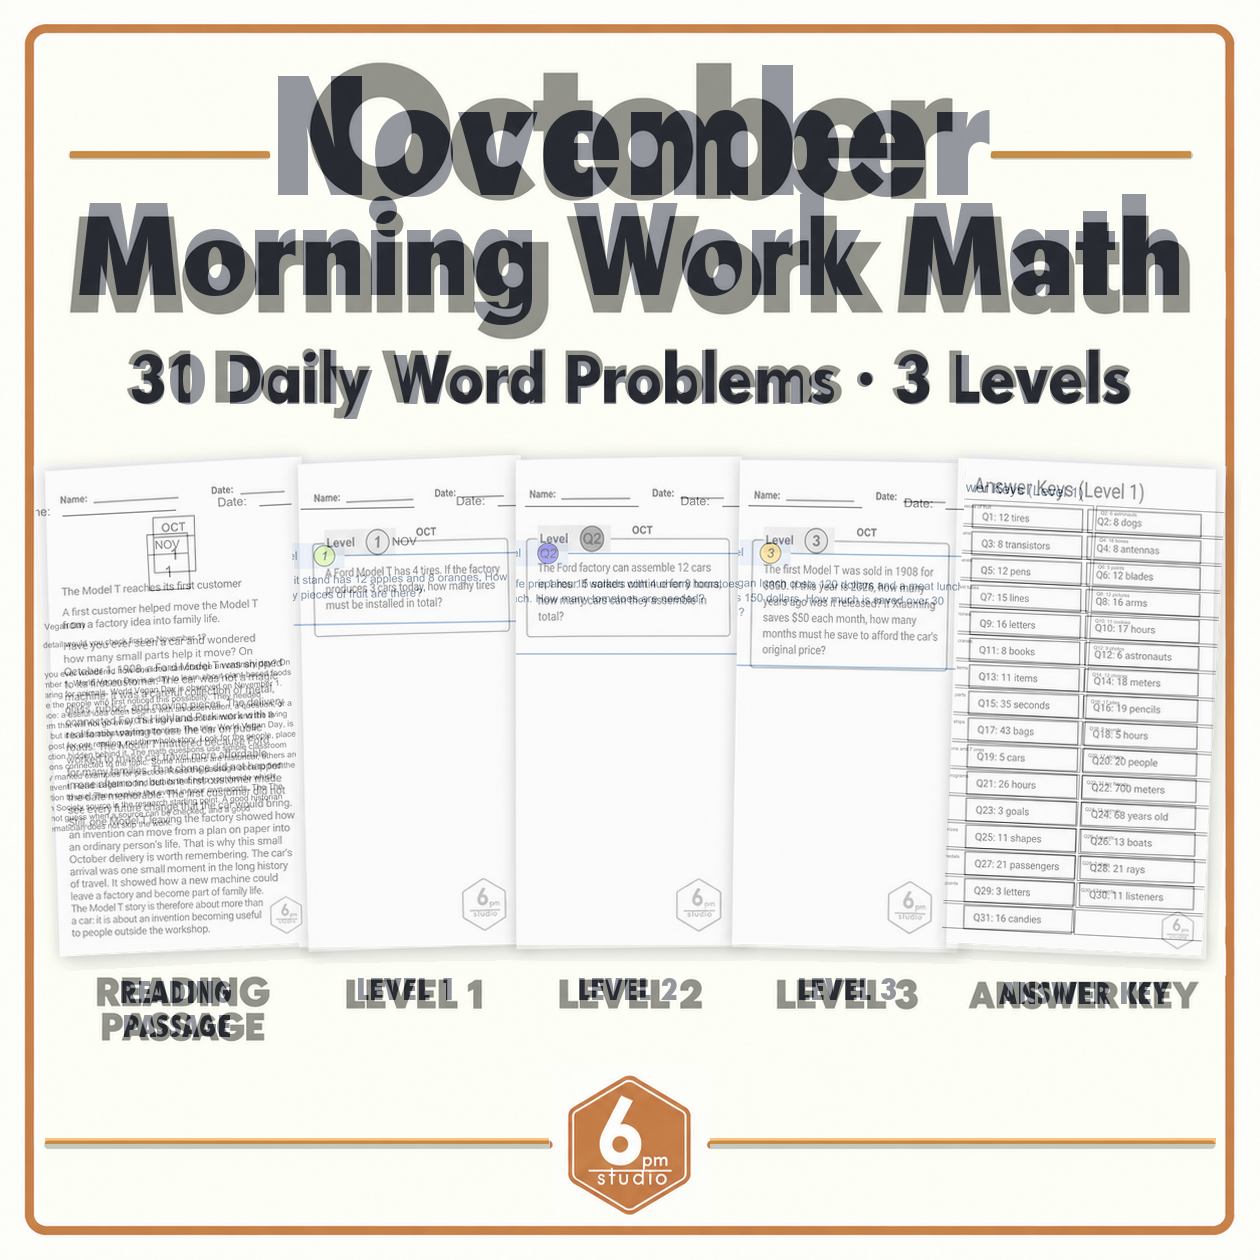
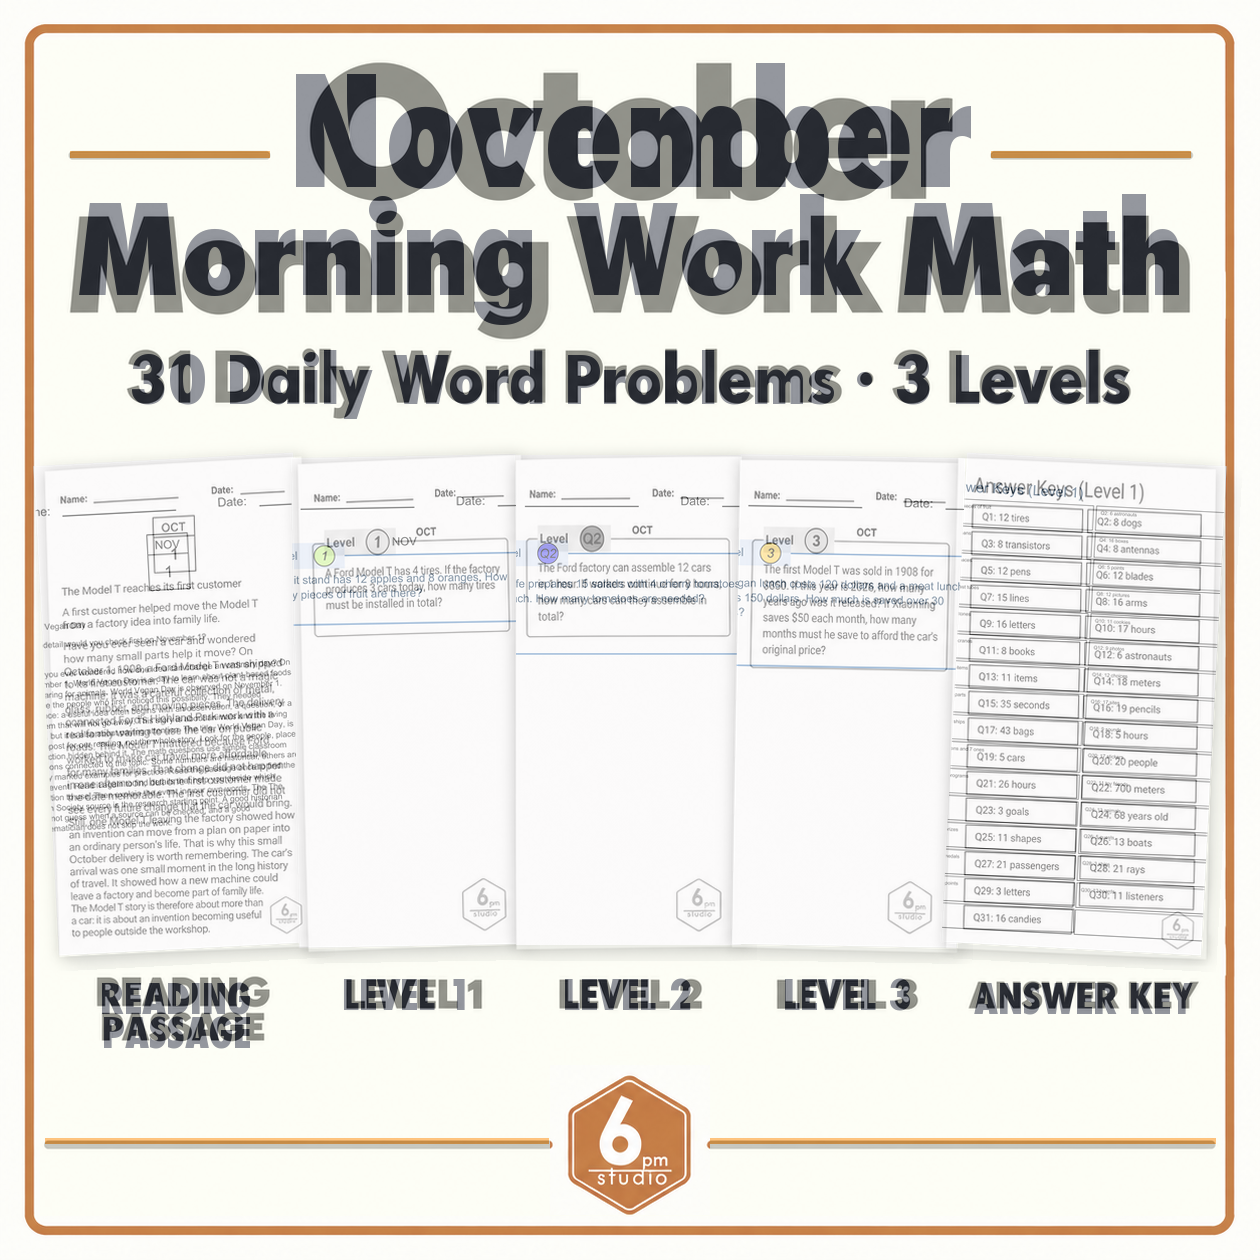
Refine landing thumbnail typography

diff --git a/scripts/generate_monthly_thumbnails.py b/scripts/generate_monthly_thumbnails.py
@@ -123,6 +123,17 @@ def landing_fitted(text: str, width: int, size: int, bold: bool = True):
     return landing_font(12, bold)
 
 
+def landing_month_font_size(month: str):
+    """Keep every month in the canonical reference's fixed title band."""
+    return 150
+
+
+def landing_label_font(lines):
+    """Fit each label line independently at the reference label scale."""
+    longest_line = max(lines, key=len)
+    return landing_fitted(longest_line, 232, 40)
+
+
 def landing_centered(draw, text, y, size, max_width=1120, fill=NAVY, bold=True):
     f = landing_fitted(text, max_width, size, bold)
     draw.text((630, y), text, anchor="ma", fill=fill, font=f)
@@ -407,7 +418,7 @@ def compose_landing_page(month, day_count, pages, out):
     # month name replaces October.
     # The reference month sits in the upper title band; longer month names
     # are fitted without changing that band's vertical center.
-    month_size = 150 if len(month) <= 7 else 158
+    month_size = landing_month_font_size(month)
     # November is longer than October, so keep its ink center in the same
     # upper-band vertical center instead of letting the font ascent pull it
     # toward the frame.
@@ -436,7 +447,7 @@ def compose_landing_page(month, day_count, pages, out):
         worksheet = worksheet.rotate(angle, resample=Image.Resampling.BICUBIC, expand=True)
         canvas.alpha_composite(worksheet, (cx - worksheet.width // 2, cy - worksheet.height // 2))
         label_lines = label.split("\n")
-        label_font = landing_fitted(label.replace("\n", " "), 232, 30)
+        label_font = landing_label_font(label_lines)
         label_y = 973 if key in {"reading_passage", "answer_key"} else 969
         for index, line in enumerate(label_lines):
             draw.text(
